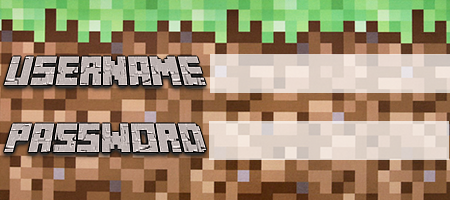
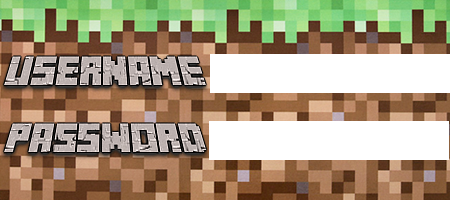
登录部分完成

Changed region(s): [[0.4667, 0.6, 1.0, 0.81], [0.4667, 0.27, 1.0, 0.48]]

diff --git a/Run-Steve/main.cpp b/Run-Steve/main.cpp
@@ -1,6 +1,8 @@
 #include<cstdio>
 #include<graphics.h>
 #include<time.h>
+#include<conio.h>
+#include<cstring>
 
 #define WIDTH 540
 #define HEIGHT 920
@@ -35,8 +37,8 @@ void menuPage()
 	imageLocate loginLocate(110, 580);
 	imageLocate registerLocate(21, 700);
 	imageLocate loginPageLocate(44, 360);
-	imageLocate userLocate(255, 411);
-	imageLocate passwordLocate(255, 486);
+	imageLocate userLocate(255, 415);
+	imageLocate passwordLocate(255, 484);
 
 	IMAGE menu;
 	IMAGE login;
@@ -85,8 +87,18 @@ void menuPage()
 	int num = 0;
 	ExMessage msg;
 	bool loginPageFlag = 0;
+	bool loginPasswordFlag = 0;
 	int startTime;
 	int freamTime;
+	char ch[2];
+	ch[1] = '\0';
+	char user[20]="\0";
+	char password[20] = "\0";
+
+	settextstyle(35, 0, _T("Consolas"));
+	settextcolor(BLACK);
+	setbkcolor(WHITE);
+
 
 	while (true)
 	{
@@ -142,9 +154,53 @@ void menuPage()
 		putimage(runSteveLovate.x, runSteveLovate.y, &runSteve_1, SRCAND);
 		putimage(runSteveLovate.x, runSteveLovate.y, &runSteve, SRCPAINT);
 
-		if (loginPageFlag)
+		if (loginPageFlag&&!loginPasswordFlag)
 		{
 			putimage(loginPageLocate.x, loginPageLocate.y, &loginPage);
+
+			if (msg.message == WM_KEYDOWN)
+			{
+				
+				ch[0] = msg.vkcode;
+				printf("%d", ch[0]);
+				if (ch[0] == 8)
+				{
+					user[strlen(user) - 1] = '\0';
+				}
+				else if (ch[0] == 13)
+				{
+					loginPasswordFlag = 1;
+				}
+				else
+				{
+					strcat_s(user, ch);
+				}
+			}
+			outtextxy(userLocate.x, userLocate.y, user);
+		}
+		else if (loginPageFlag && loginPasswordFlag)
+		{
+			putimage(loginPageLocate.x, loginPageLocate.y, &loginPage);
+			if (msg.message == WM_KEYDOWN)
+			{
+
+				ch[0] = msg.vkcode;
+				if (ch[0] == 8)
+				{
+					password[strlen(password) - 1] = '\0';
+				}
+				else if (ch[0] == 13)
+				{
+					loginPasswordFlag = 0;
+					loginPageFlag = 0;
+				}
+				else
+				{
+					strcat_s(password, ch);
+				}
+			}
+			outtextxy(userLocate.x, userLocate.y, user);
+			outtextxy(passwordLocate.x, passwordLocate.y, password);
 		}
 
 
